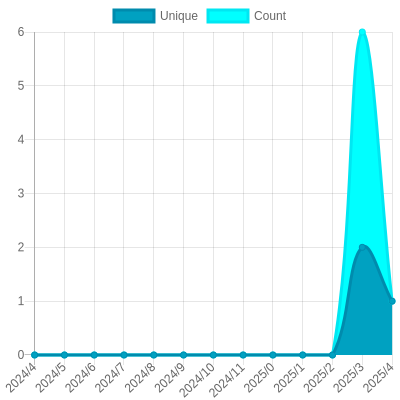
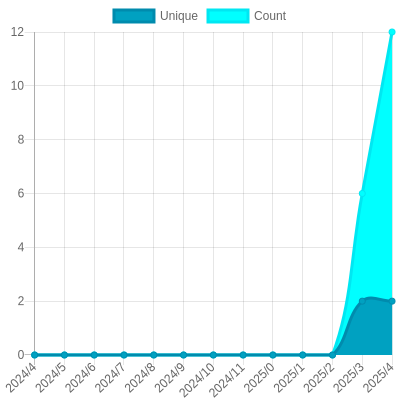
Update views

diff --git a/readme/777208957/year.md b/readme/777208957/year.md
@@ -23,10 +23,10 @@
 			<code>2024/5/1</code>
 		</td>
 		<td>
-			<code>1</code>
+			<code>2</code>
 		</td>
 		<td>
-			<code>1</code>
+			<code>12</code>
 		</td>
 	</tr>
 	<tr>
@@ -164,7 +164,7 @@
 </table>
 
 </details>
-<small><i>Last updated on 2024/5/24 6:20 AM UTC</i></small>
+<small><i>Last updated on 2024/5/24 12:27 PM UTC</i></small>
 
 ## ✂Copy and 📋 Paste
 ### SVG Badge

diff --git a/README.md b/README.md
@@ -53,7 +53,7 @@ The project created and maintained by [gayanvoice](https://github.com/gayanvoice
 	</tr>
 </table>
 
-<small><i>Last updated on 2024/5/24 6:20 AM UTC</i></small>
+<small><i>Last updated on 2024/5/24 12:27 PM UTC</i></small>
 
 ## ✂Copy and 📋 Paste
 ### Total Views Badge

diff --git a/readme/794605585/year.md b/readme/794605585/year.md
@@ -164,7 +164,7 @@
 </table>
 
 </details>
-<small><i>Last updated on 2024/5/24 6:20 AM UTC</i></small>
+<small><i>Last updated on 2024/5/24 12:27 PM UTC</i></small>
 
 ## ✂Copy and 📋 Paste
 ### SVG Badge
